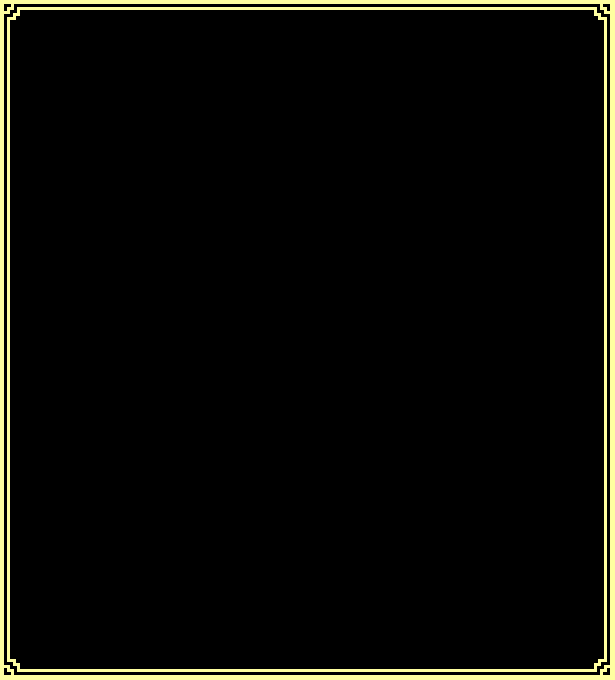
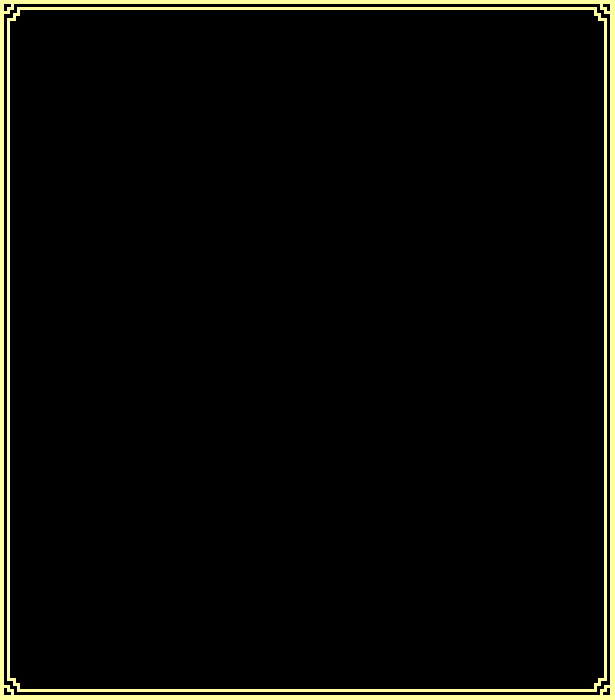
Bug Fix: Dialog Size

Changed region(s): [[0.0, 0.9882, 0.9886, 1.0], [0.0, 0.0, 0.9886, 0.0309]]

diff --git a/stext/sgml.min.css b/stext/sgml.min.css
@@ -1,1 +1,1 @@
-.playground{width:560px;margin:0 auto}.playground textarea{width:560px}#main{border:solid 1px #000;padding:20px;width:550px;min-height:500px;margin:0 auto}.main_back{background-image:url(common/main_back.png);background-repeat:no-repeat;background-position:right center}#restart{background-image:url(common/restart_back.png);background-repeat:no-repeat;background-position:center center;min-height:500px}h5#scenario_title{font-size:small;text-align:right}#simple_status{font-size:small;font-weight:700;text-align:center}#simple_status .status_v{font-weight:400}#debug_panel{margin-top:10px}#control_panel{margin:0 auto;width:95%}#control_panel img{margin-left:4px;width:62px;height:62px;cursor:pointer}table.enemy{width:100%;margin-bottom:30px}table.enemy,table.enemy td,table.enemy th{border-collapse:collapse;text-align:left;line-height:1.5;border-top:1px solid #ccc;border-bottom:1px solid #ccc}input.scene_move{width:80%;height:20px;background-color:#ff9}input.quest_str{width:80%;height:20px;background-color:#0fc}.quest_str,.scene_move{text-align:center;margin:3px;padding:5px;color:#000;text-decoration:none;border:1px solid #000;background-color:#eee}.scenebtn{display:block;text-align:center;margin:3px;padding:5px;color:#000;text-decoration:none;border:1px solid #000;background-color:#eee}.scenepic{width:100%}#dialog_list img.bonus_item{cursor:pointer}img.dice{cursor:pointer;width:50px}#dialog_body input[type=number]{width:50px}#dialog_body #title,#dialog_body h3{color:#c08}#dialog_body td label,#dialog_body td span{color:#ffd}#dialog_body{position:relative;border:0 solid #000;background-color:#000;padding:20px;width:580px;height:650px;margin:0 auto;font-size:large;color:#f90;background-image:url(common/dialog_back.png);background-repeat:no-repeat;background-position:center}#dialog_body .close{position:absolute;right:-16px;top:-10px;cursor:pointer}#dialog_bonus{background-image:url(common/dialog_bonus_back.png);background-repeat:no-repeat;background-position:center}#dialog_list{background-image:url(common/dialog_list_back.png);background-repeat:no-repeat;background-position:center;color:#fff}#dialog_results{background-color:#000;background-image:url(common/dialog_result_back.png);background-repeat:no-repeat;background-position:center;color:#fff;padding:75px 0 0}#dialog_results table{width:100%;display:block;overflow-y:scroll;height:330px}#dialog_results table::-webkit-scrollbar{width:5px;background:#336}#dialog_results table::-webkit-scrollbar-thumb{background:#99f}#dialog_results #result_rate{text-align:right;width:100%}#dialog_results table,#dialog_results table td{border-collapse:collapse;text-align:left;line-height:1.5;border-top:1px solid #ccc;border-bottom:1px solid #ccc}#dialog_results table td{padding-left:5px}#dialog_results table h3{color:orange}#dialog_results table p{color:#9370db}#dialog_body .delta{color:Red;font-weight:700}#dialog_body th{padding-right:5px;text-align:right}#dialog_body td,#dialog_body th{vertical-align:top;padding-bottom:.3rem}#dialog_body #state_desc{color:Red;font-weight:700;font-size:normal}#status_save{margin-right:15px;cursor:pointer}#dialog_body input{height:25px}#dialog_body input[type=number],#dialog_body select,#dialog_body textarea{border-radius:3px;background-color:#cad4ff;font-size:large}#dialog_body textarea{width:100%}#magic_run,#status_change{border:solid 2px #ff9;background-color:#dc143c;color:#fff;cursor:pointer;font-size:large}.spinner_up{border:solid 1px #ff9;background-color:#900;color:#fff;cursor:pointer;font-size:large}.spinner_down{border:solid 1px #ff9;background-color:#006;color:#fff;cursor:pointer;font-size:large}.spinner_down,.spinner_up{width:50px}#magic_run{padding-left:25px;padding-right:25px}#status_change{display:block;width:95%}#dialog_body #magic{width:80%}#dialog_body #flags{width:90%}table.item_list{border-collapse:collapse;background-color:#fff}table.item_list,table.item_list td{border:1px solid #000;padding:8px}table.item_list td{height:70px}table.item_list img{width:70px}.enemy_row{cursor:pointer}.toast{position:fixed;bottom:10px;display:inline-block;background:rgba(240,230,140,.9);color:#000;border-radius:15px;padding:8px 15px;border:none;z-index:1000;box-shadow:1px 1px 5px rgba(0,0,0,.2);font-size:18px}
+.playground{width:560px;margin:0 auto}.playground textarea{width:560px}#main{border:solid 1px #000;padding:20px;width:550px;min-height:500px;margin:0 auto}.main_back{background-image:url(common/main_back.png);background-repeat:no-repeat;background-position:right center}#restart{background-image:url(common/restart_back.png);background-repeat:no-repeat;background-position:center center;min-height:500px}h5#scenario_title{font-size:small;text-align:right}#simple_status{font-size:small;font-weight:700;text-align:center}#simple_status .status_v{font-weight:400}#debug_panel{margin-top:10px}#control_panel{margin:0 auto;width:95%}#control_panel img{margin-left:4px;width:62px;height:62px;cursor:pointer}table.enemy{width:100%;margin-bottom:30px}table.enemy,table.enemy td,table.enemy th{border-collapse:collapse;text-align:left;line-height:1.5;border-top:1px solid #ccc;border-bottom:1px solid #ccc}input.scene_move{width:80%;height:20px;background-color:#ff9}input.quest_str{width:80%;height:20px;background-color:#0fc}.quest_str,.scene_move{text-align:center;margin:3px;padding:5px;color:#000;text-decoration:none;border:1px solid #000;background-color:#eee}.scenebtn{display:block;text-align:center;margin:3px;padding:5px;color:#000;text-decoration:none;border:1px solid #000;background-color:#eee}.scenepic{width:100%}#dialog_list img.bonus_item{cursor:pointer}img.dice{cursor:pointer;width:50px}#dialog_body input[type=number]{width:50px}#dialog_body #title,#dialog_body h3{color:#c08}#dialog_body td label,#dialog_body td span{color:#ffd}#dialog_body{position:relative;border:0 solid #000;background-color:#000;padding:20px;width:580px;height:670px;margin:0 auto;font-size:large;color:#f90;background-image:url(common/dialog_back.png);background-repeat:no-repeat;background-position:center}#dialog_body .close{position:absolute;right:-16px;top:-10px;cursor:pointer}#dialog_bonus{background-image:url(common/dialog_bonus_back.png);background-repeat:no-repeat;background-position:center}#dialog_list{background-image:url(common/dialog_list_back.png);background-repeat:no-repeat;background-position:center;color:#fff}#dialog_results{background-color:#000;background-image:url(common/dialog_result_back.png);background-repeat:no-repeat;background-position:center;color:#fff;padding:75px 0 0}#dialog_results table{width:100%;display:block;overflow-y:scroll;height:330px}#dialog_results table::-webkit-scrollbar{width:5px;background:#336}#dialog_results table::-webkit-scrollbar-thumb{background:#99f}#dialog_results #result_rate{text-align:right;width:100%}#dialog_results table,#dialog_results table td{border-collapse:collapse;text-align:left;line-height:1.5;border-top:1px solid #ccc;border-bottom:1px solid #ccc}#dialog_results table td{padding-left:5px}#dialog_results table h3{color:orange}#dialog_results table p{color:#9370db}#dialog_body .delta{color:Red;font-weight:700}#dialog_body th{padding-right:5px;text-align:right}#dialog_body td,#dialog_body th{vertical-align:top;padding-bottom:.3rem}#dialog_body #state_desc{color:Red;font-weight:700;font-size:normal}#status_save{margin-right:15px;cursor:pointer}#dialog_body input{height:25px}#dialog_body input[type=number],#dialog_body select,#dialog_body textarea{border-radius:3px;background-color:#cad4ff;font-size:large}#dialog_body textarea{width:100%}#magic_run,#status_change{border:solid 2px #ff9;background-color:#dc143c;color:#fff;cursor:pointer;font-size:large}.spinner_up{border:solid 1px #ff9;background-color:#900;color:#fff;cursor:pointer;font-size:large}.spinner_down{border:solid 1px #ff9;background-color:#006;color:#fff;cursor:pointer;font-size:large}.spinner_down,.spinner_up{width:50px}#magic_run{padding-left:25px;padding-right:25px}#status_change{display:block;width:95%}#dialog_body #magic{width:80%}#dialog_body #flags{width:90%}table.item_list{border-collapse:collapse;background-color:#fff}table.item_list,table.item_list td{border:1px solid #000;padding:8px}table.item_list td{height:70px}table.item_list img{width:70px}.enemy_row{cursor:pointer}.toast{position:fixed;bottom:10px;display:inline-block;background:rgba(240,230,140,.9);color:#000;border-radius:15px;padding:8px 15px;border:none;z-index:1000;box-shadow:1px 1px 5px rgba(0,0,0,.2);font-size:18px}

diff --git a/stext/sgml.css b/stext/sgml.css
@@ -141,7 +141,7 @@ img.dice {
   background-color: #000;
   padding: 20px;
   width: 580px;
-  height: 650px;
+  height: 670px;
   margin: 0 auto;
   font-size: large;
   color: #f90;
